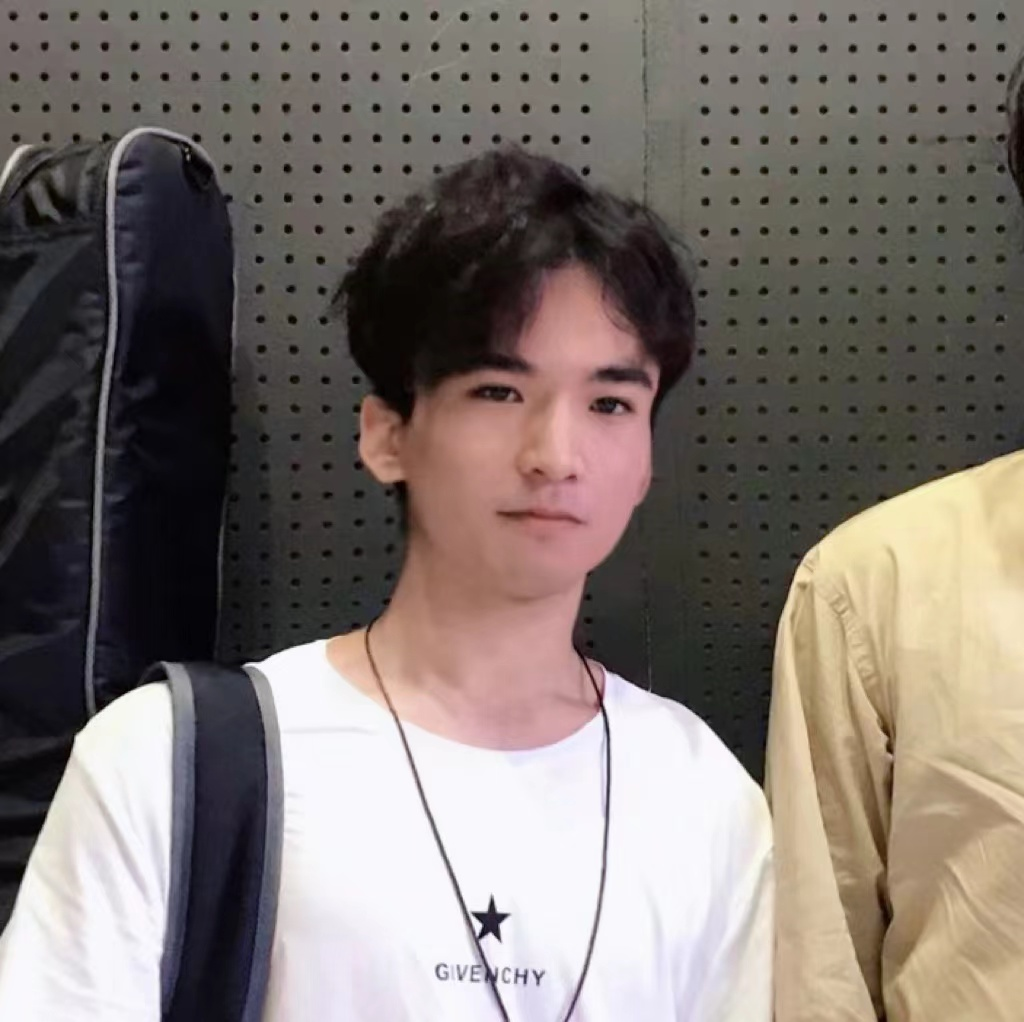
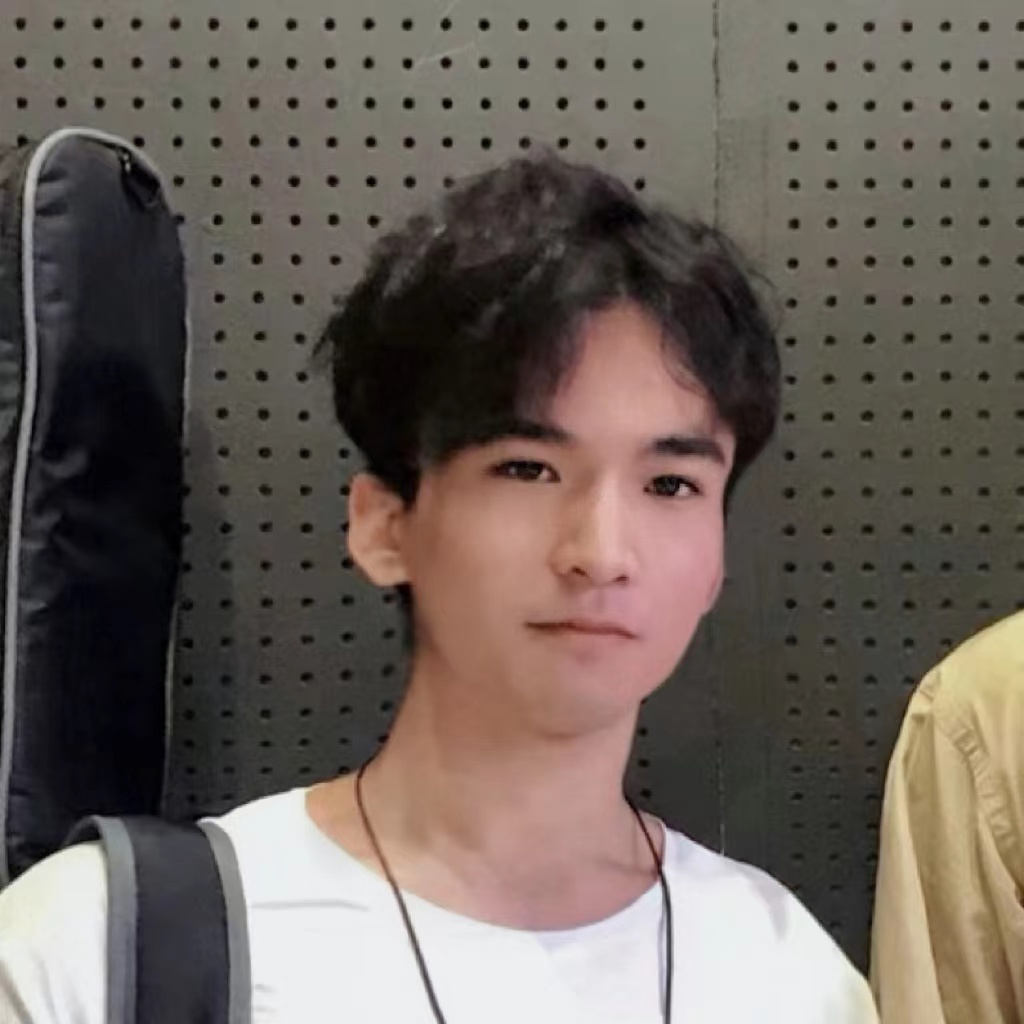
Updated 09/23/2022

diff --git a/index.html b/index.html
@@ -86,8 +86,8 @@
     <section class="header">
       <div class="row">
         <div class="three columns">
-          <a href="/"><img title="my lovely cat" class="u-max-full-width" src='assets/profile-pics/huida.jpg'></a>
-          <!-- <a href="/"><img title="Me" class="u-max-full-width" src='assets/profile-pics/me.jpg'></a> -->
+          <!-- <a href="/"><img title="my lovely cat" class="u-max-full-width" src='assets/profile-pics/huida.jpg'></a> -->
+          <a href="/"><img title="Me" class="u-max-full-width" src='assets/profile-pics/me.jpg'></a>
         </div>
         <div class="nine columns main-description">
             <h1>Runkai Zheng</h1>
